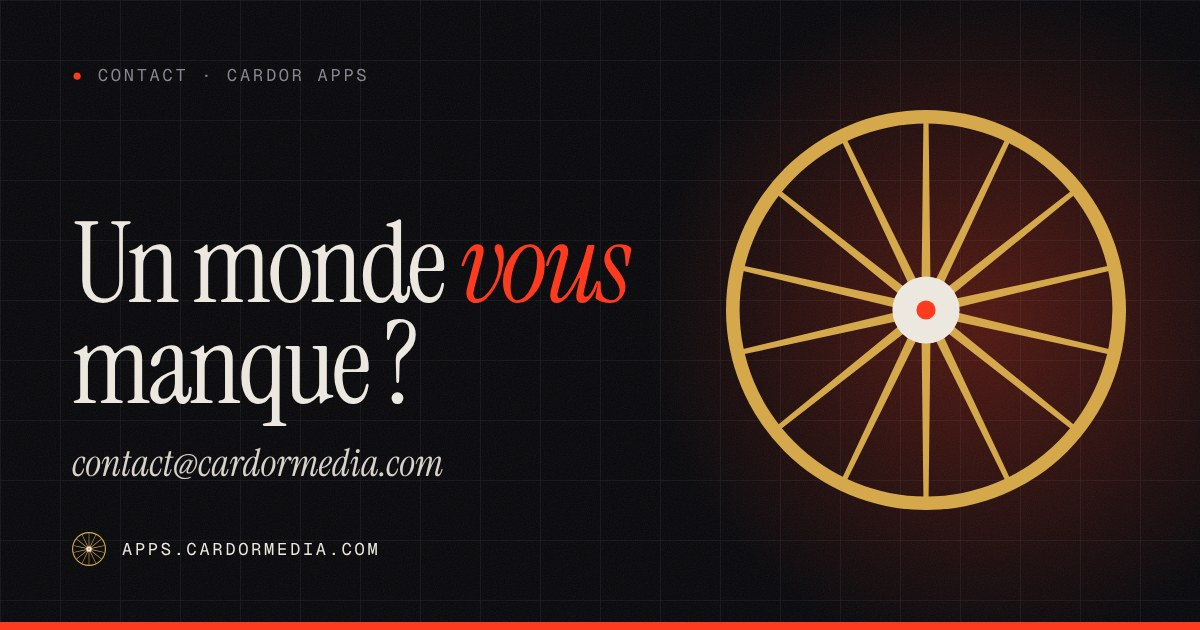
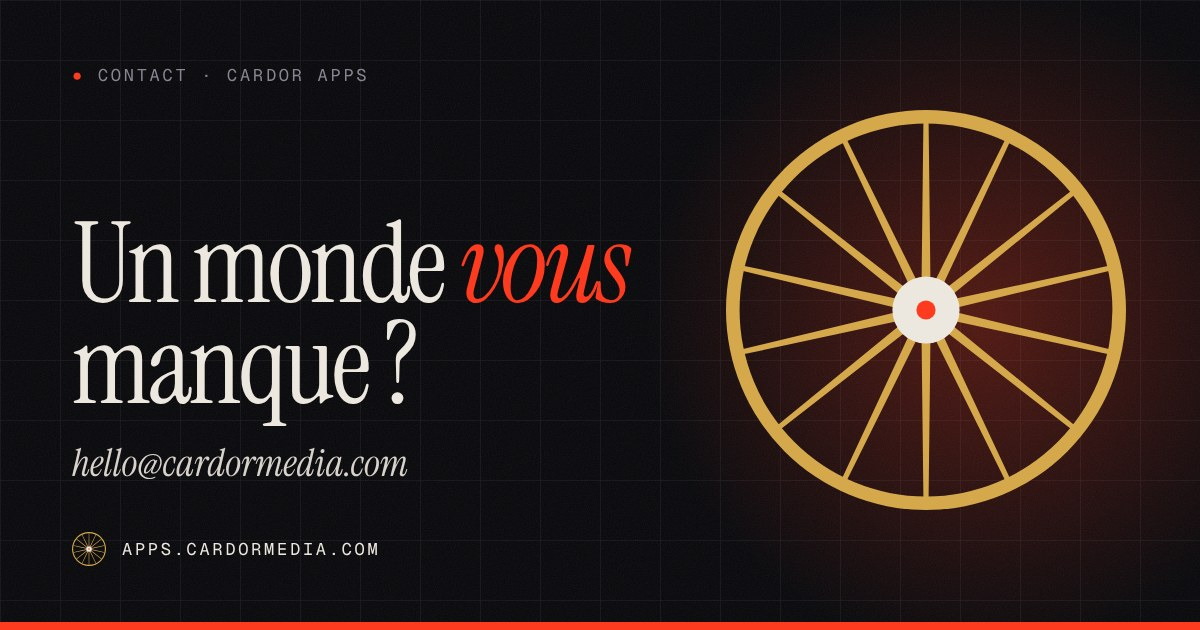
fix(apps): contact address hello@cardormedia.com
Claude-Session: https://claude.ai/code/session_01LzENS3T8qJ42BCpeBCXstf

Changed region(s): [[0.0617, 0.7238, 0.37, 0.754]]

diff --git a/src/lib/sites/config.ts b/src/lib/sites/config.ts
@@ -124,7 +124,7 @@ export const sites: Record<SiteId, SiteConfig> = {
 		signal: '#FF3B1F',
 		signalDeep: '#C2260F',
 		coreState: 'holding',
-		email: 'contact@cardormedia.com',
+		email: 'hello@cardormedia.com',
 		tagline: 'Tous nos mondes, à portée de clic',
 		description:
 			'Le lanceur de CARDOR Media : tous les jeux, applications et créations de CM Interactive, CM Soundworks et CM Creative Lab, à ouvrir en un clic.',
